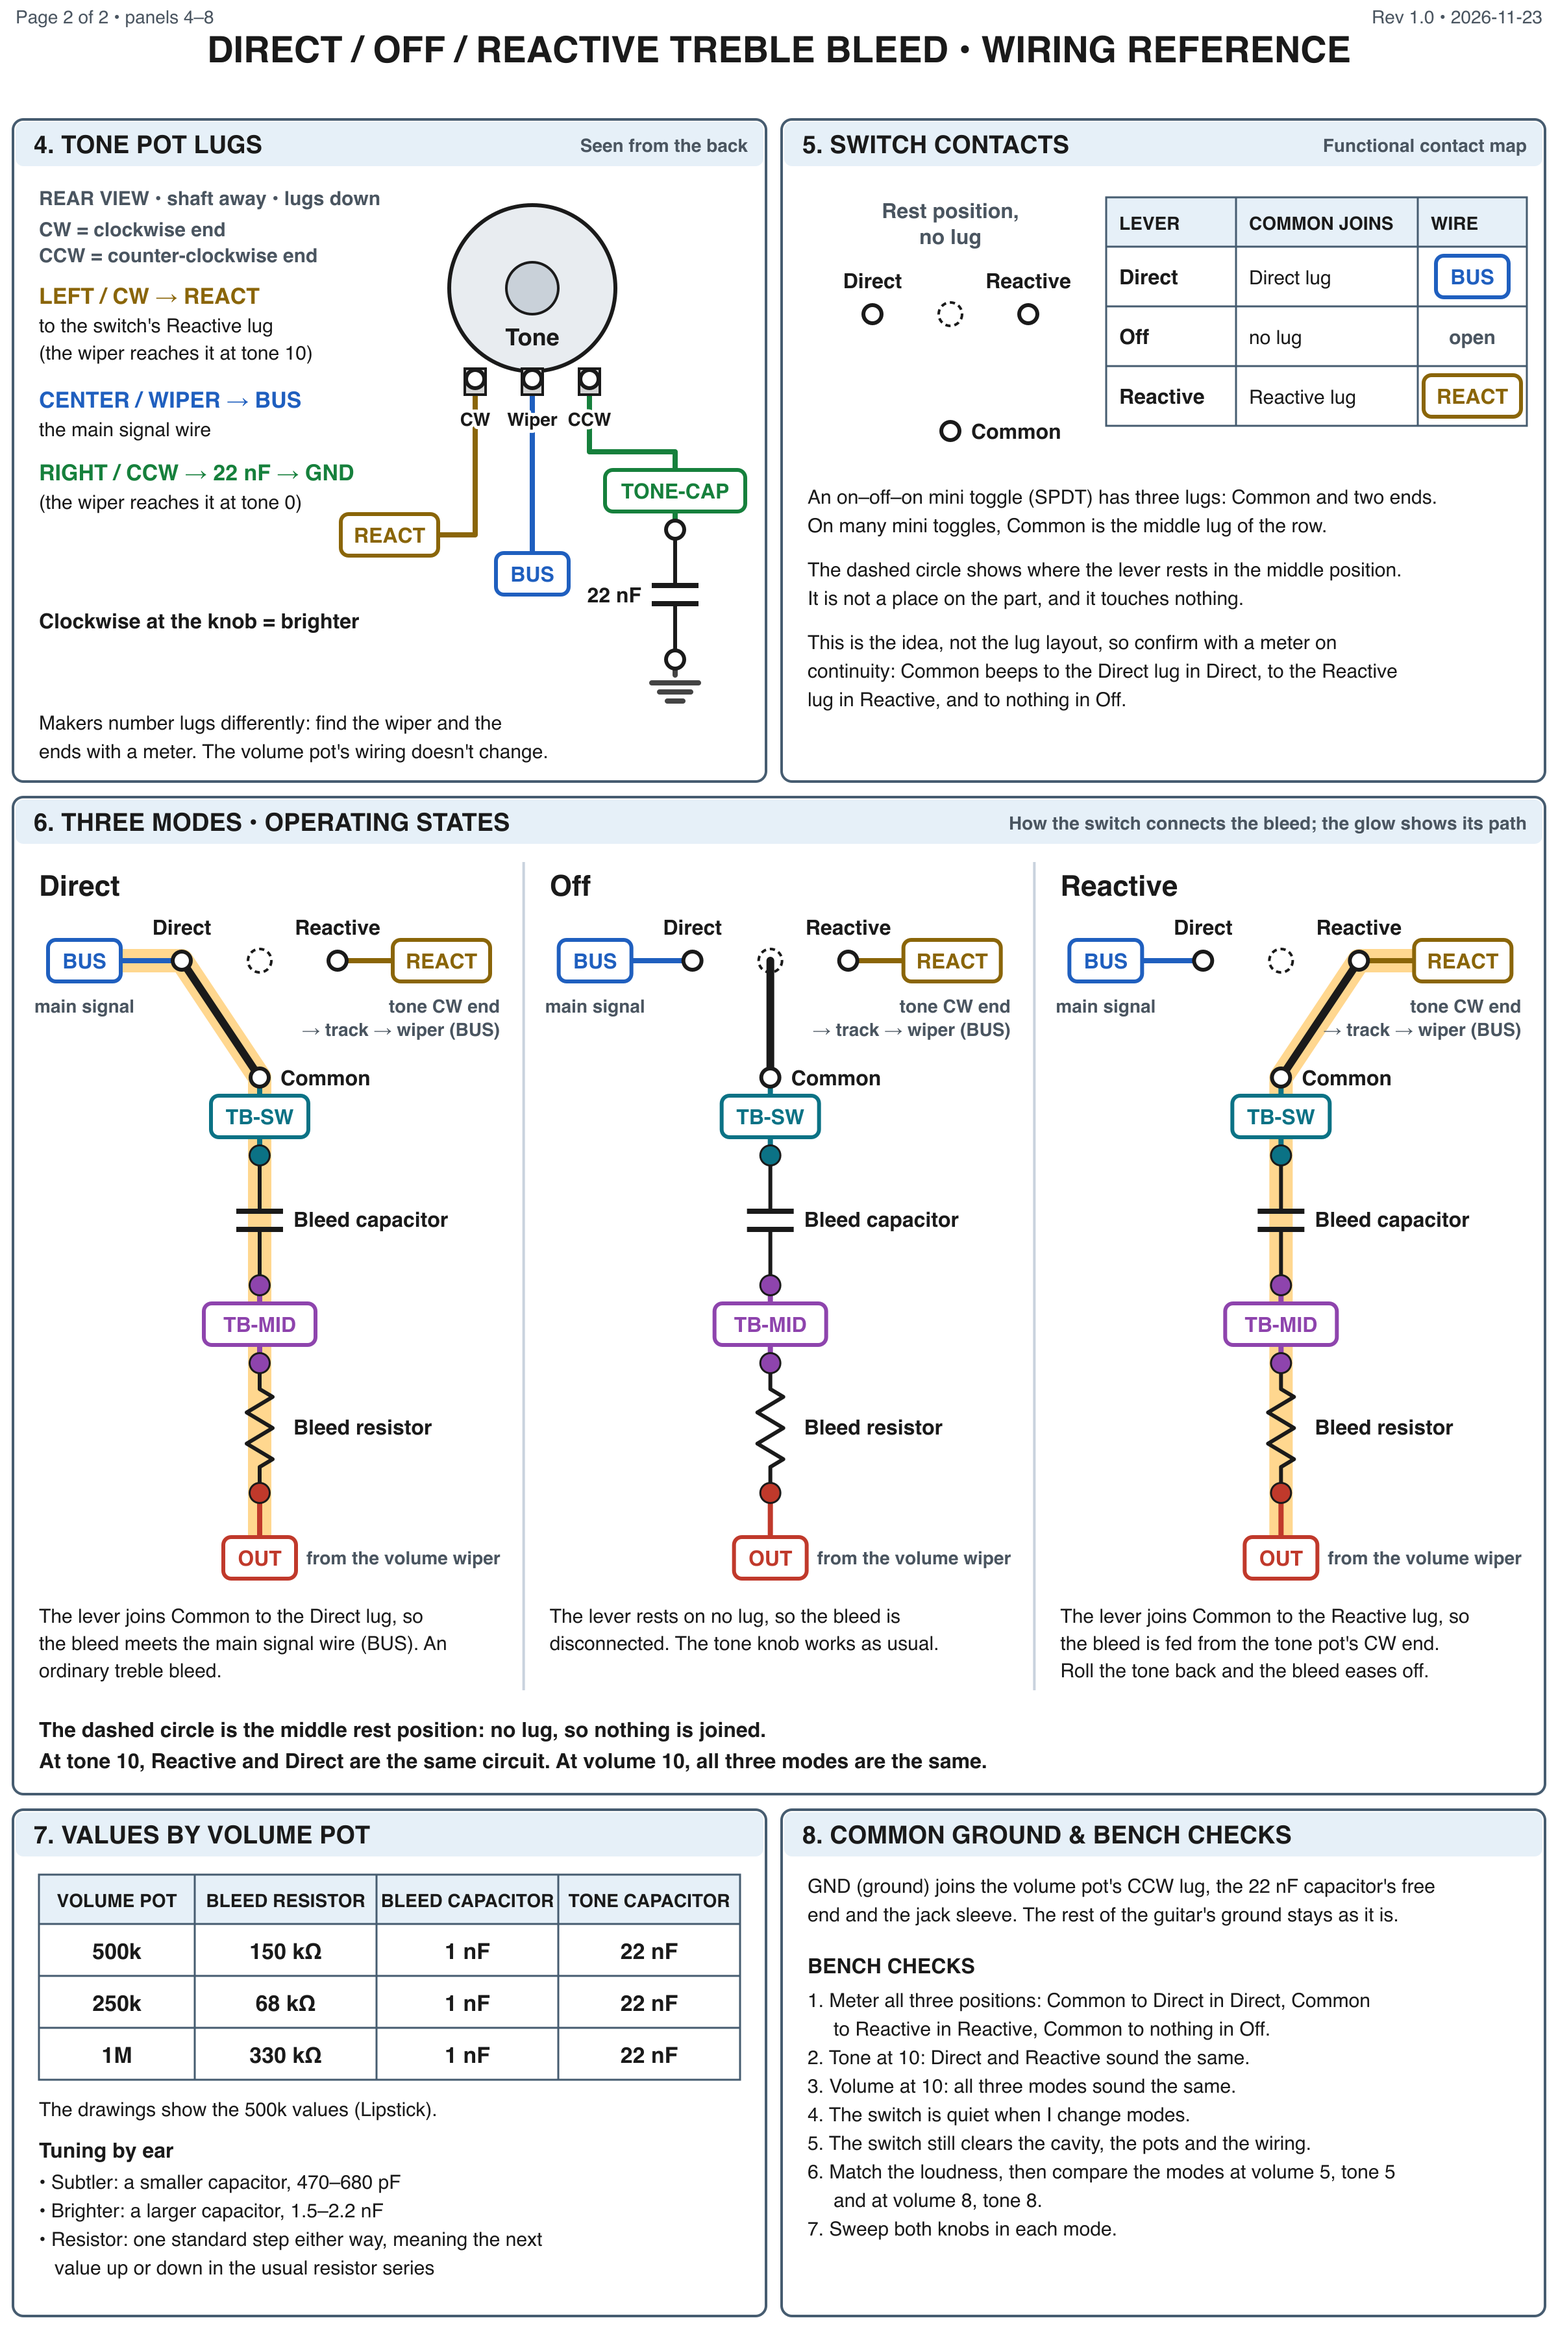
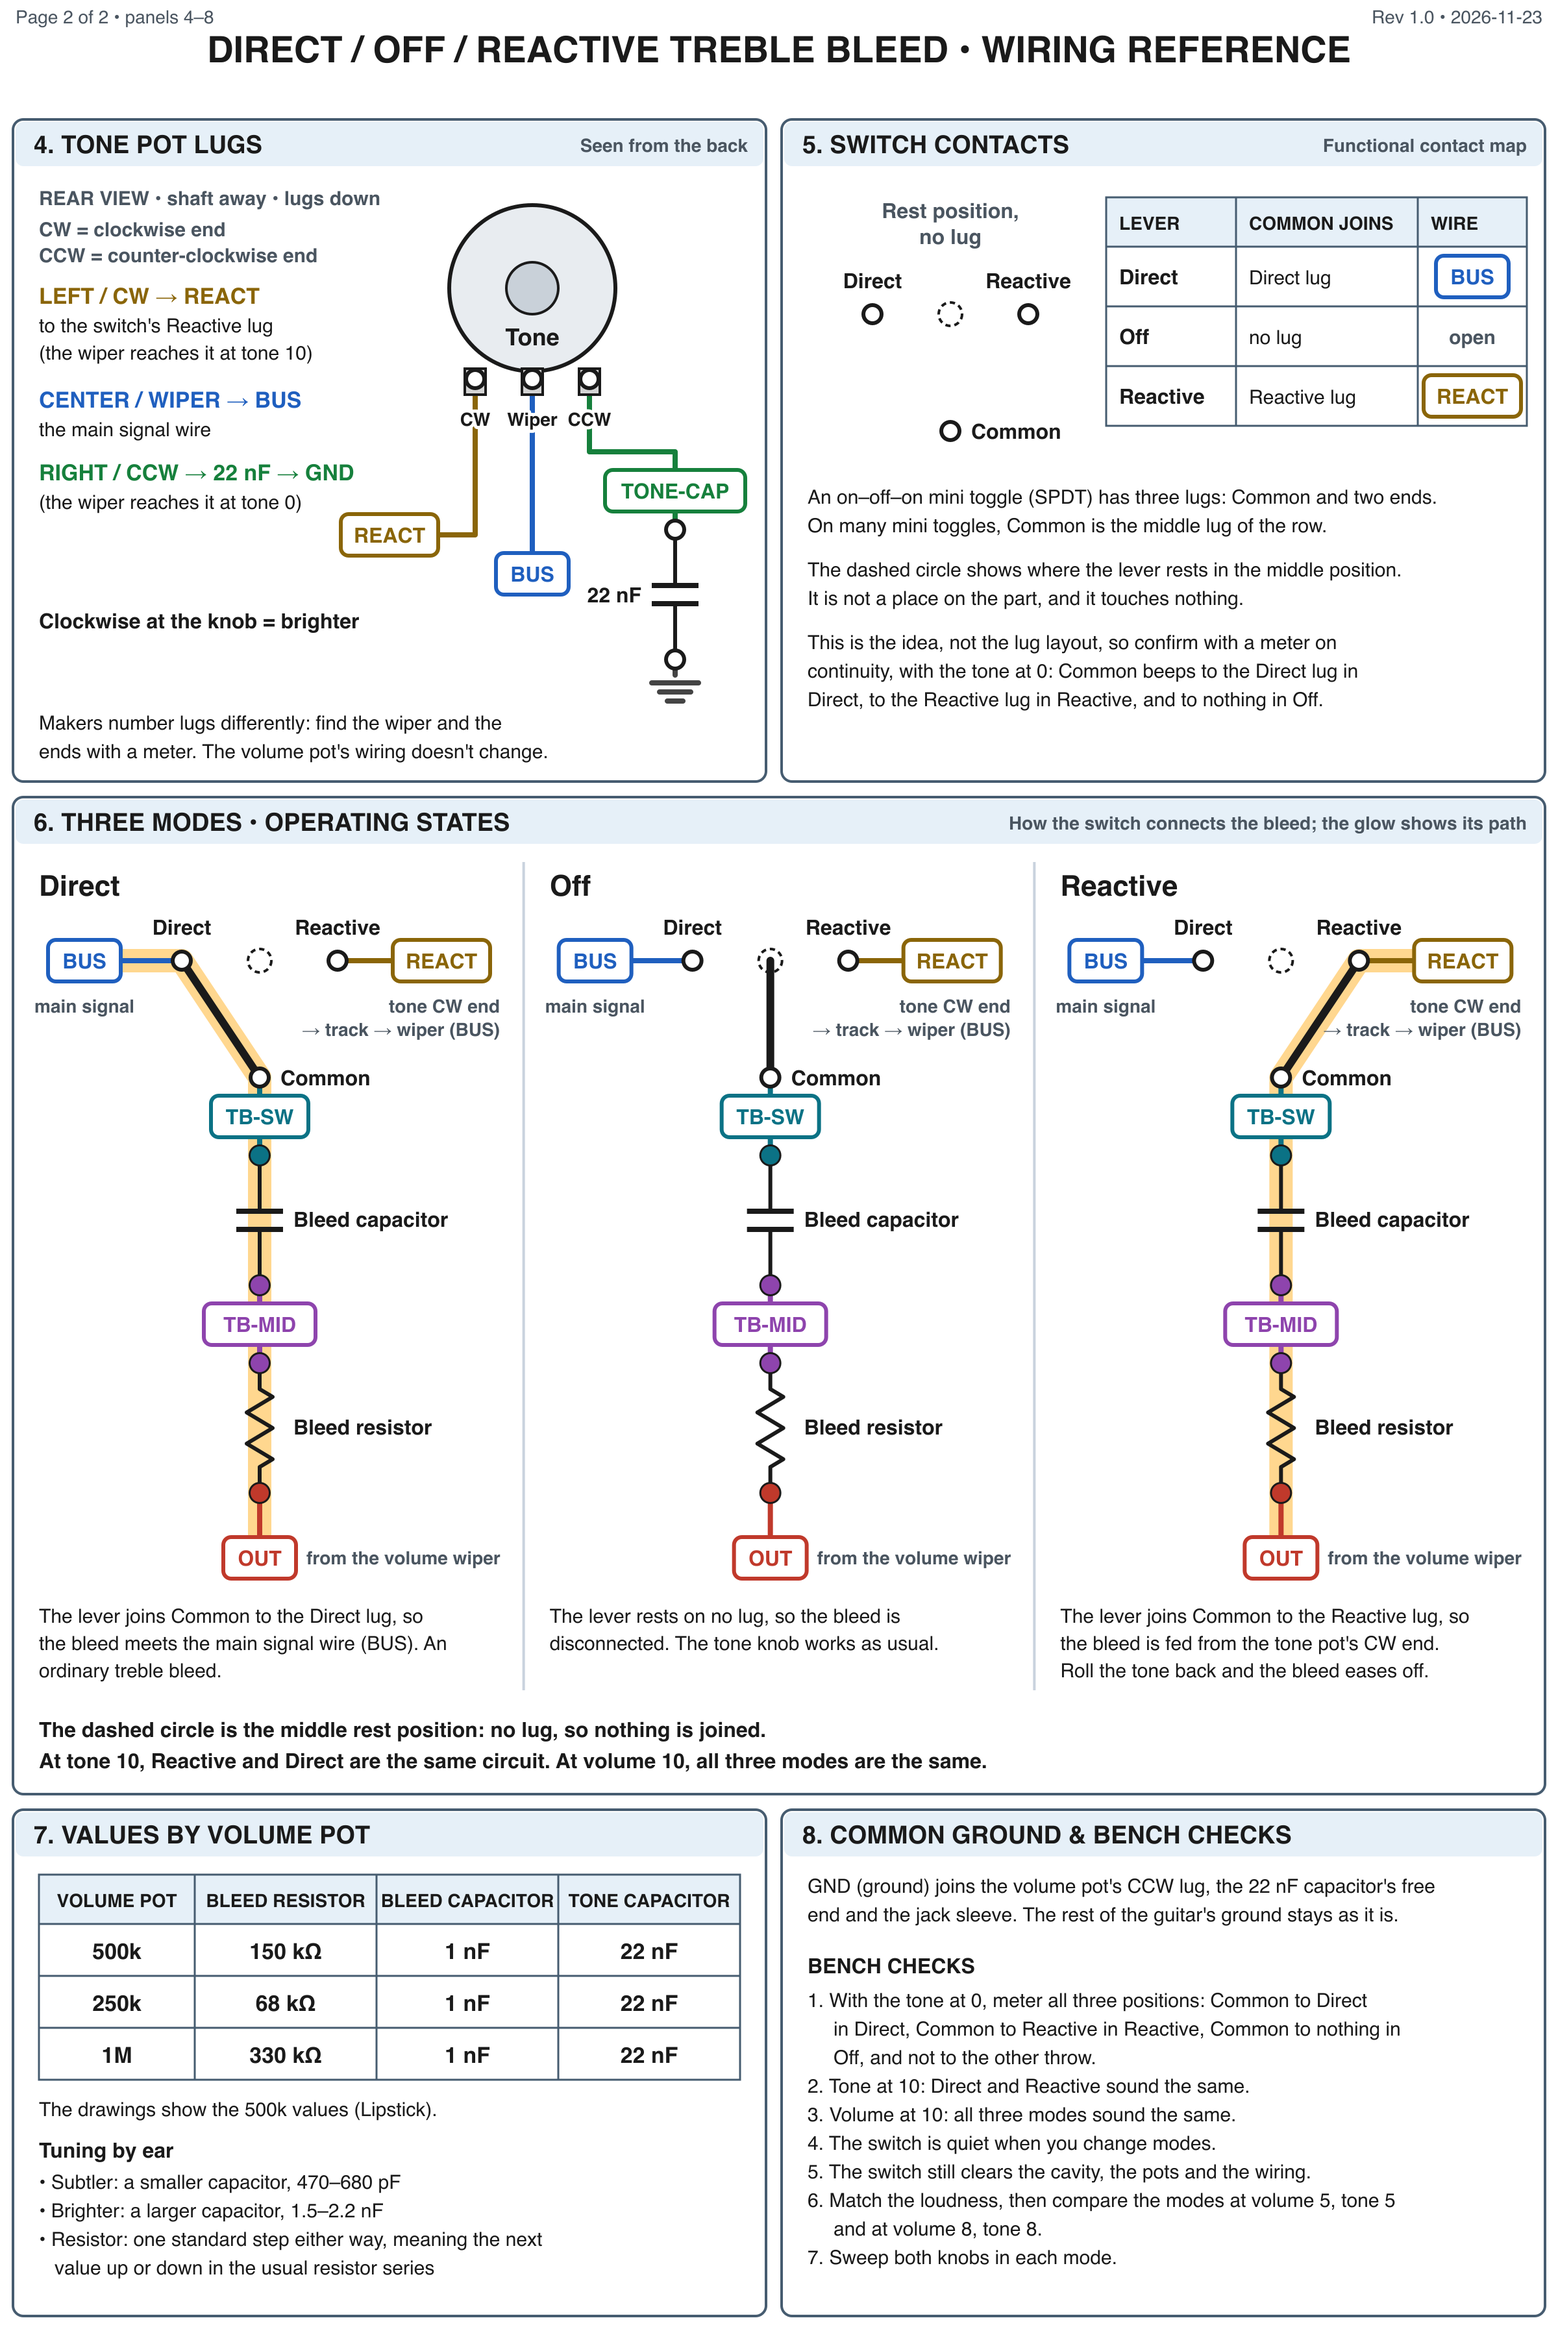
Set the tone to 0 for the sheet's switch meter checks
At tone 10 the tone pot joins the Reactive lug to BUS, so the Direct check
also beeps to the Reactive lug and can't catch a wrong lug. Panel 8 step 1
and the panel 5 note now say tone at 0; step 4 addresses the builder.
Regenerated the sheet and page B via the CLI (page A is unchanged).

Changed region(s): [[0.5312, 0.8428, 0.875, 0.9677], [0.5625, 0.2809, 0.875, 0.3122]]

diff --git a/docs/engineering/treble-bleed-switch/generate-diagrams.test.ts b/docs/engineering/treble-bleed-switch/generate-diagrams.test.ts
@@ -95,6 +95,12 @@ describe('treble bleed explainer schematics', () => {
         for (const v of ['470–680 pF', '1.5–2.2 nF']) expect(svg).toContain(v);
         expect(labels.join(' ')).toContain('a common mini toggle needs 6 mm; measure yours first');
         expect(svg).not.toContain('switch I link');
+        const prose = labels.join(' ');
+        expect(prose).toContain('1. With the tone at 0, meter all three positions');
+        expect(prose).toContain('and not to the other throw');
+        expect(prose).toContain('with the tone at 0: Common beeps');
+        expect(prose).toContain('quiet when you change modes');
+        expect(prose).not.toMatch(/when I change modes/);
     }, 120000);
 
     it('puts the exact meter reminder on the switch contact map', () => {
